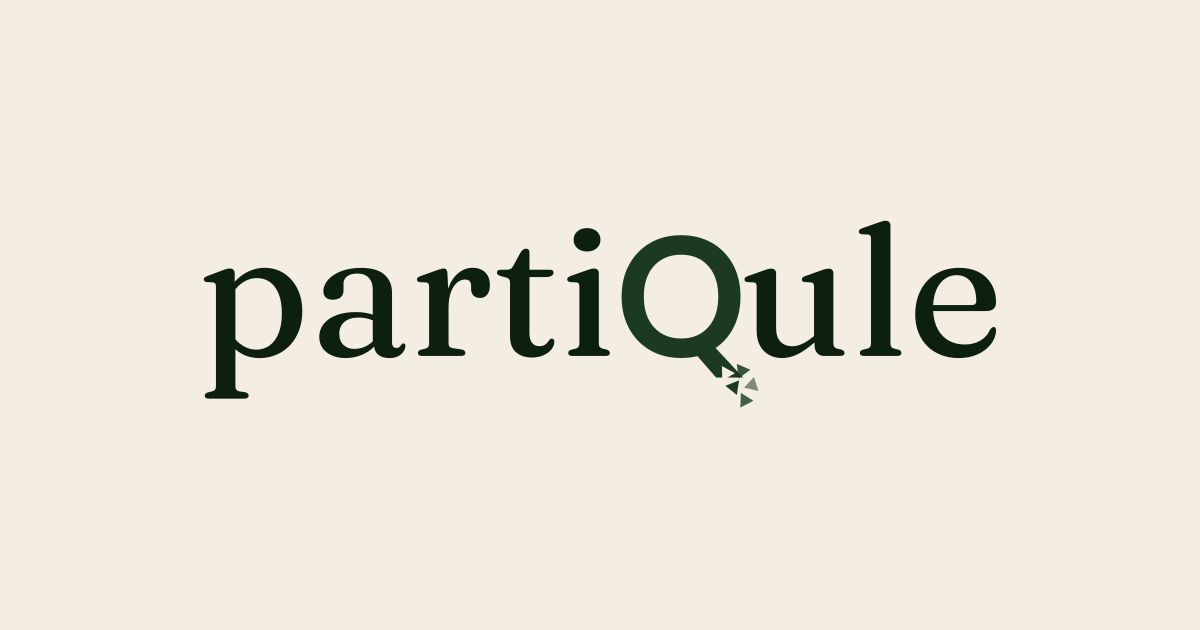
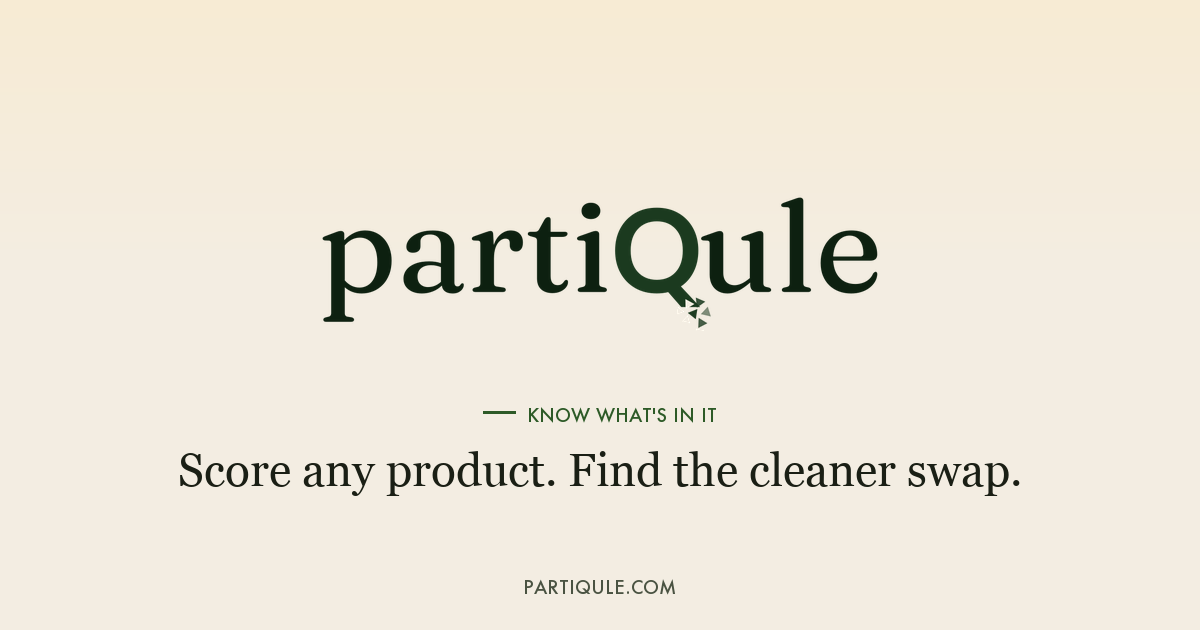
New Open Graph preview image on current brand palette
The shared og-image.png that Instagram, Facebook, iMessage, Twitter, and
Slack render as the link-preview thumbnail for every partiqule.com URL
was still the old composition with the leaf icon and saturated green
scheme. With Sports Organics potentially about to share SKU URLs, the
preview had to match the current cream/moss/warm-ink brand.

Rewrote via a Python PIL script at frontend/scripts/build-og-image.py:

  - Cream #f3ede2 background with morning-light warm-amber gradient
    at the top 280px (matches the hero-section treatment on the app)
  - Partiqule wordmark centered (560px wide) with the green Q
  - Moss small-caps eyebrow with hairline rule, KNOW WHAT'S IN IT
  - Tagline Score any product. Find the cleaner swap. in Georgia
    (closest system serif to Fraunces — wordmark carries the brand,
    tagline is secondary)
  - PARTIQULE.COM domain stamp in ink-soft at the bottom
  - 1200x630 standard OG size

Single shared og-image.png covers every page on the site. Every link
preview now looks on-brand regardless of which SKU or guide page is
shared.

Also corrected the wordmark asset inventory in CLAUDE.md. The -light.svg
naming had been documented as for light backgrounds but is actually
light-colored letters (for dark backgrounds). Verified by pixel
inspection: -wordmark-1080.png has 59k dark + 13k green pixels,
-wordmark-light-1080.png has 58k cream pixels. The script uses the
non-light variant for dark ink on cream.
[…]

diff --git a/frontend/scripts/build-og-image.py b/frontend/scripts/build-og-image.py
@@ -1,0 +1,126 @@
+#!/usr/bin/env python3
+"""Build the Open Graph social preview image (1200x630).
+
+Produces frontend/public/og-image.png — the image that Instagram, Facebook,
+iMessage, Twitter, Slack, etc. render as the preview thumbnail when any
+partiqule.com URL is shared.
+
+Design matches the current app UI (cream paper, warm ink, moss wordmark —
+NOT the old leaf icon + saturated green scheme).
+
+Regenerate: python3 frontend/scripts/build-og-image.py
+"""
+from __future__ import annotations
+import os
+import sys
+from pathlib import Path
+from PIL import Image, ImageDraw, ImageFont
+
+ROOT = Path(__file__).resolve().parent.parent
+PUBLIC = ROOT / "public"
+
+# ── Canvas ──────────────────────────────────────────────────────
+W, H = 1200, 630
+CREAM = (243, 237, 226)          # --cream
+CREAM_LIGHT = (247, 241, 231)    # --cream-light
+INK = (26, 31, 21)               # --ink
+INK_SOFT = (74, 83, 66)          # --ink-soft
+MOSS = (45, 90, 39)              # --moss
+AMBER_WARM = (255, 230, 180)     # morning-light top tint
+
+# ── Fonts ───────────────────────────────────────────────────────
+# Fraunces isn't installed system-wide. Fall back to Georgia — visually
+# closest serif available on macOS. The wordmark image carries the brand
+# identity; the tagline is secondary.
+def load_font(candidates: list[str], size: int) -> ImageFont.FreeTypeFont:
+    for path in candidates:
+        if os.path.exists(path):
+            return ImageFont.truetype(path, size=size)
+    return ImageFont.load_default()
+
+SERIF = load_font([
+    "/System/Library/Fonts/Supplemental/Georgia.ttf",
+    "/Library/Fonts/Georgia.ttf",
+    "/System/Library/Fonts/Times.ttc",
+], size=46)
+
+SANS_CAPS = load_font([
+    "/System/Library/Fonts/Supplemental/Futura.ttc",
+    "/System/Library/Fonts/HelveticaNeue.ttc",
+    "/System/Library/Fonts/Helvetica.ttc",
+], size=18)
+
+# ── Compose ─────────────────────────────────────────────────────
+img = Image.new("RGB", (W, H), CREAM)
+draw = ImageDraw.Draw(img)
+
+# Morning-light gradient at the top 240px — subtle warm amber wash
+top_band = Image.new("RGBA", (W, 280), (0, 0, 0, 0))
+tb_draw = ImageDraw.Draw(top_band)
+for y in range(280):
+    fade = 1 - (y / 280)
+    alpha = int(80 * fade)  # max ~31% opacity at the very top
+    tb_draw.line([(0, y), (W, y)], fill=(255, 230, 180, alpha))
+img.paste(top_band, (0, 0), top_band)
+
+# ── Wordmark (centered, upper-middle) ───────────────────────────
+# Despite CLAUDE.md's asset inventory text, partiqule-wordmark-1080.png has
+# DARK letters + green Q (verified by pixel inspection: 59k dark pixels vs
+# 58k cream in the -light variant). That's the one we want on cream.
+wordmark_path = PUBLIC / "partiqule-wordmark-1080.png"
+if not wordmark_path.exists():
+    print(f"[og-image] Wordmark not found at {wordmark_path}", file=sys.stderr)
+    sys.exit(1)
+
+wordmark = Image.open(wordmark_path).convert("RGBA")
+# Target width on the 1200x630 canvas: 560px keeps breathing room
+wm_target_w = 560
+wm_scale = wm_target_w / wordmark.width
+wm_target_h = int(wordmark.height * wm_scale)
+wordmark = wordmark.resize((wm_target_w, wm_target_h), Image.LANCZOS)
+
+# Position: horizontally centered, ~200px from the top
+wm_x = (W - wm_target_w) // 2
+wm_y = 195
+img.paste(wordmark, (wm_x, wm_y), wordmark)
+
+# ── Small-caps eyebrow above tagline ────────────────────────────
+# Simulated with a short moss rule + all-caps DM-Sans-equivalent text
+rule_y = wm_y + wm_target_h + 72
+rule_w = 32
+# Horizontally center the rule + eyebrow block
+EYEBROW = "KNOW WHAT'S IN IT"
+eyebrow_bbox = draw.textbbox((0, 0), EYEBROW, font=SANS_CAPS)
+eyebrow_w = eyebrow_bbox[2] - eyebrow_bbox[0]
+total_eyebrow_w = rule_w + 12 + eyebrow_w
+eyebrow_x = (W - total_eyebrow_w) // 2
+
+# Moss hairline
+draw.rectangle([(eyebrow_x, rule_y + 8), (eyebrow_x + rule_w, rule_y + 10)], fill=MOSS)
+# Eyebrow text (letter-spaced approximation)
+draw.text((eyebrow_x + rule_w + 12, rule_y), EYEBROW, font=SANS_CAPS, fill=MOSS)
+
+# ── Tagline (Fraunces fallback: Georgia) ────────────────────────
+TAGLINE = "Score any product. Find the cleaner swap."
+tag_bbox = draw.textbbox((0, 0), TAGLINE, font=SERIF)
+tag_w = tag_bbox[2] - tag_bbox[0]
+tag_x = (W - tag_w) // 2
+tag_y = rule_y + 40
+draw.text((tag_x, tag_y), TAGLINE, font=SERIF, fill=INK)
+
+# ── Bottom domain stamp ─────────────────────────────────────────
+DOMAIN = "PARTIQULE.COM"
+dom_bbox = draw.textbbox((0, 0), DOMAIN, font=SANS_CAPS)
+dom_w = dom_bbox[2] - dom_bbox[0]
+dom_x = (W - dom_w) // 2
+dom_y = H - 55
+draw.text((dom_x, dom_y), DOMAIN, font=SANS_CAPS, fill=INK_SOFT)
+
+# ── Subtle paper-texture overlay (optional, skipped) ────────────
+# The live app uses a fractal-noise SVG overlay for paper grain. At OG
+# preview sizes it's barely visible; skip for simplicity.
+
+# ── Save ────────────────────────────────────────────────────────
+out = PUBLIC / "og-image.png"
+img.save(out, "PNG", optimize=True)
+print(f"[og-image] Wrote {out} ({W}x{H})")

diff --git a/CLAUDE.md b/CLAUDE.md
@@ -966,8 +966,8 @@ The Partiqule wordmark was introduced 2026-04-19, replacing the older leaf/Q ico
 
 | File | When to use |
 |---|---|
-| `partiqule-wordmark.svg` | Primary, cream letters — dark backgrounds (main app nav, barcode scanner overlay, SEO page footer, Barcode loading screen) |
-| `partiqule-wordmark-light.svg` | Dark letters on transparent — light backgrounds (SEO page nav at `background:#fff`) |
+| `partiqule-wordmark.svg` | Dark letters on transparent — for light/cream backgrounds (main app nav, SEO page nav, loading screens on cream) |
+| `partiqule-wordmark-light.svg` | Cream/light letters — for dark backgrounds (barcode scanner overlay, dark-chrome contexts). Naming is "light-colored letters", not "for light backgrounds" — this is confusing; verified 2026-04-23 by pixel inspection of the PNG exports. |
 | `partiqule-stacked.svg` | Vertical Q-above-text lockup — reserved for future use (about page, stories, etc.) |
 | `partiqule-q.svg` | Q-only, green `#2d6a32` on transparent — favicon source and anywhere a full wordmark won't fit |
 | `partiqule-wordmark-{360,720,1080}.png` | PNG exports of the primary wordmark — for canvas rendering (share cards) and any context where SVG is awkward |
